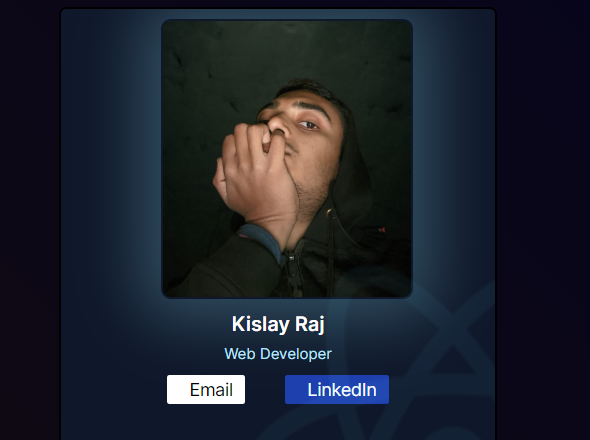
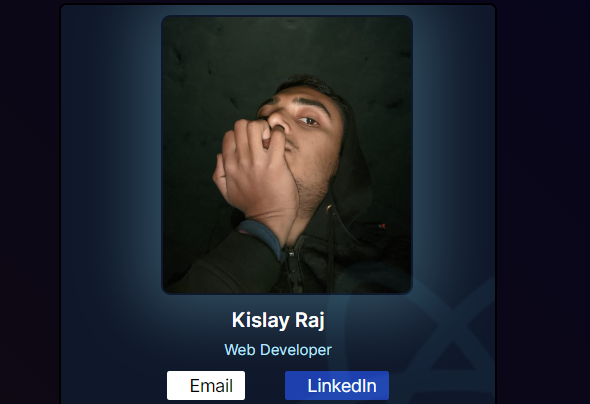
project responsive

Changed region(s): [[0.2746, 0.1782, 0.7017, 1.0], [0.0915, 0.0, 0.8542, 0.0594]]

diff --git a/src/pages/Projects.js b/src/pages/Projects.js
@@ -24,7 +24,8 @@ const Projects = () => {
   });
 
   return (
-    <div className="flex justify-around m-2 pt-16 text-xs ">
+    
+    <div className=" w-full   flex flex-col gap-6 items-center  justify-around md:flex-row md:gap-1 md:items-start m-2 pt-16 text-xs ">
       <div
         className="box-card clock border-2 rounded-xl h-72 w-64 p-8 text-lg"
         dangerouslySetInnerHTML={{ __html: dateTime }}
@@ -59,14 +60,15 @@ const Projects = () => {
         </div></Link>
       <Link to="/ReactCard"><div className="box-card border-2 rounded-xl h-72 w-64">
         <img src={ReactCardThumb} alt="" className="" />
-        <div className=" p-2 pt-4  text-gray-300">•Business Card</div>
-          <div className="p-2 pt-0 text-gray-300">
-          •I built this simple version of the game while learnig React. <br />
+        <div className=" p-2 pt-4 pb-0 text-gray-300">•Business Card</div>
+          <div className="p-2 pt-0 pb-0 text-gray-300">
+          •Custom business card design using React for a personalized touch. <br />
             Click to view.
           </div>
-          <div className="pl-2 text-gray-300">•Language used - React & Tailwind CSS</div>
+          <div className="pl-2  text-gray-300">•Language used - React & Tailwind CSS</div>
         </div></Link>
     </div>
+   
   );
 };
 

diff --git a/src/components/MainContent.js b/src/components/MainContent.js
@@ -1,27 +1,13 @@
 import React from 'react'
-import { useState } from 'react';
-import { useEffect } from 'react';
 
 
 const MainContent = () => {
 
-    const[dateTime, setDateTime]= useState("");
-
-    useEffect(()=>{
-        const updateDateTime =()=>{
-            const now =new Date();
-            const dateString = now.toDateString()
-            const timeString = now.toLocaleString();
-            setDateTime(`${dateString} <br> ${timeString}`);
-        }
-        updateDateTime();
-        const intervalId = setInterval(updateDateTime,1000);
-        return () => clearInterval(intervalId);
-    })
+  
 
 
   return (
-    <div className='flex justify-around m-5'>
+    <div className=' flex justify-around m-5 w-full'>
       <div className="box-card border-2 rounded-xl h-64 w-64">1</div>
       <div className="box-card border-2 rounded-xl h-64 w-64">2</div>
       <div className="box-card border-2 rounded-xl h-72 w-72">3</div>

diff --git a/src/components/Navbar.js b/src/components/Navbar.js
@@ -9,7 +9,7 @@ const body = "Hello Kislay,";
   return (
     <div>
       
-      <nav className='navbar h-auto  flex justify-around p-3 bg-gradient-to-r from-dark-start to-dark-end'>
+      <nav className='navbar h-auto w-full flex justify-around p-3 bg-gradient-to-r from-dark-start to-dark-end'>
         <img src={Logo} alt='' class="company-logo h-12 object-cover"/>
         <div className='menu-1 m-2 '>
           <ul className='flex gap-10'>
